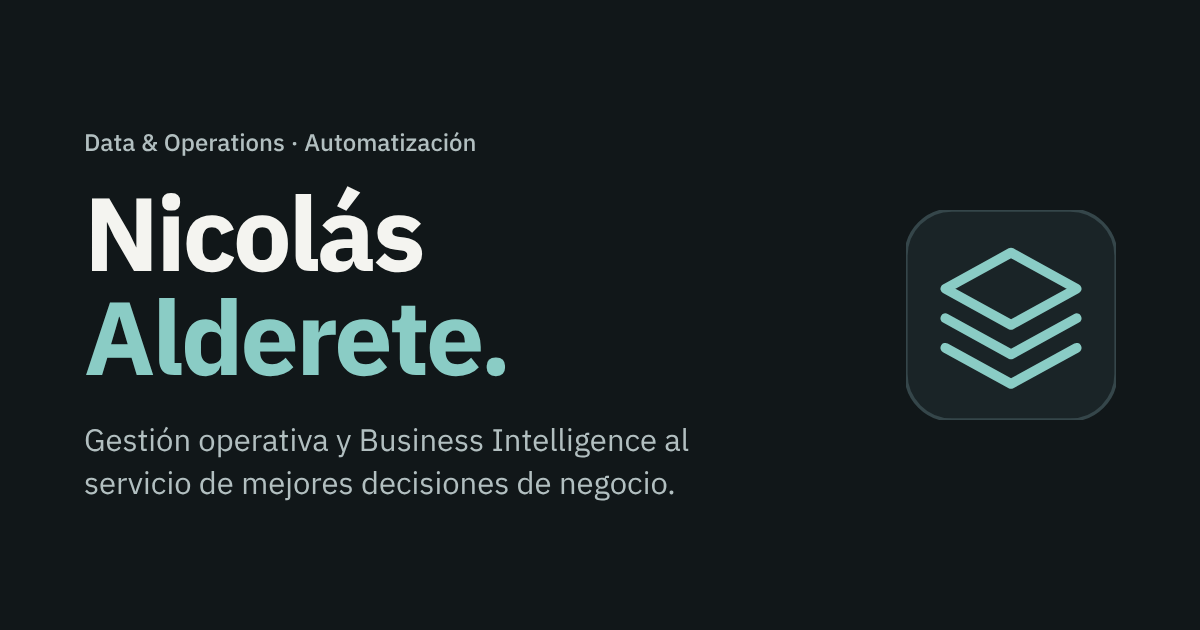
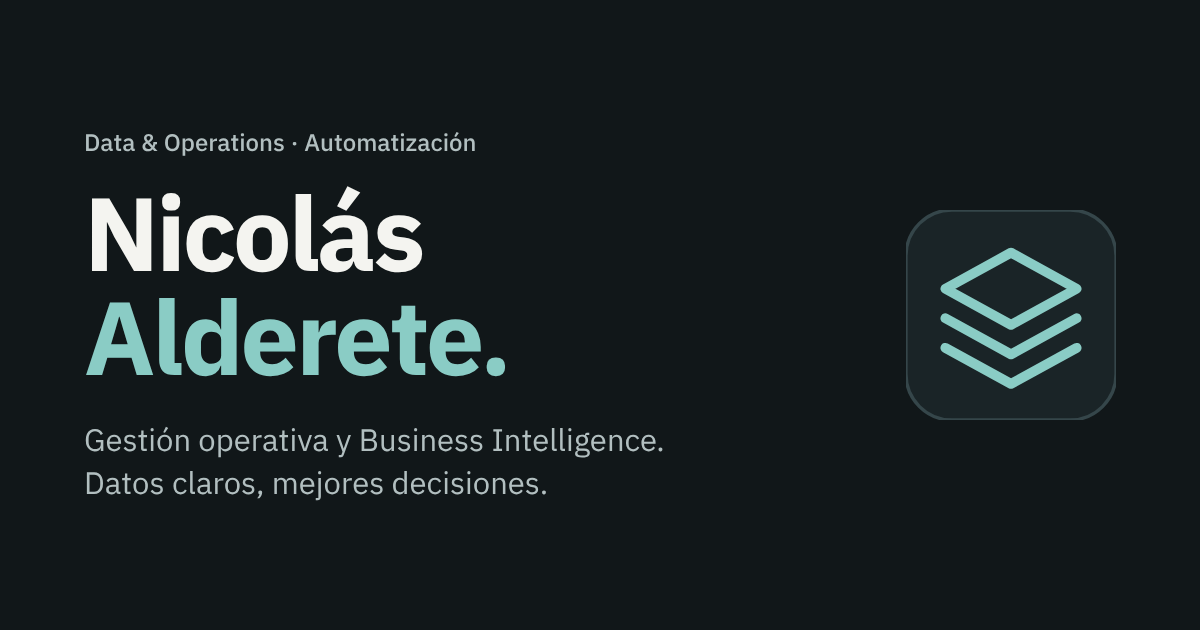
Cambia la frase de la portada y la imagen para compartir
Claude-Session: https://claude.ai/code/session_019oqm24apScdJa8YTtKtuDZ

Changed region(s): [[0.0617, 0.754, 0.555, 0.7841], [0.555, 0.6937, 0.5858, 0.7238]]

diff --git a/index.html b/index.html
@@ -2,7 +2,7 @@
 <html lang="es"><head><meta charset="utf-8"><meta name="viewport" content="width=device-width,initial-scale=1"><title>Nicolás Alderete — Data &amp; Operations</title><meta name="description" content="Portfolio de Nicolás Alderete: gestión operativa y de equipos, coordinación transversal, Business Intelligence, reporting ejecutivo y mejora de procesos."><meta name="theme-color" content="#111719"><link rel="canonical" href="https://nicoalderete.github.io/"><link rel="stylesheet" href="assets/css/portfolio.css?v=20261118c"><link rel="icon" href="assets/img/favicon.svg" type="image/svg+xml"><meta property="og:type" content="website"><meta property="og:site_name" content="Nicolás Alderete"><meta property="og:locale" content="es_AR"><meta property="og:title" content="Nicolás Alderete — Data &amp; Operations"><meta property="og:description" content="Portfolio de Nicolás Alderete: gestión operativa y de equipos, coordinación transversal, Business Intelligence, reporting ejecutivo y mejora de procesos."><meta property="og:url" content="https://nicoalderete.github.io/"><meta property="og:image" content="https://nicoalderete.github.io/assets/img/og.png"><meta property="og:image:width" content="1200"><meta property="og:image:height" content="630"><meta name="twitter:card" content="summary_large_image"><link rel="stylesheet" href="assets/css/refine.css?v=20261118g"></head>
 <body><a class="skip" href="#contenido">Saltar al contenido</a>
 <header><nav class="wrap main-nav" aria-label="Navegación principal"><a class="identity" href="#inicio">Nicolás Alderete <span>Data &amp; Operations</span></a><div class="navlinks"><a href="#proyectos">Proyectos</a><a href="#sobre-mi">Sobre mí</a><a href="#contacto">Contacto</a></div></nav></header>
-<main class="wrap" id="contenido"><section class="hero" id="inicio"><div><p class="eyebrow">Data &amp; Operations · Automatización</p><h1>Nicolás<br><span>Alderete.</span></h1><p class="hero-lead">Gestión operativa y Business Intelligence al servicio de mejores decisiones de negocio.</p><a class="hero-link" href="#proyectos">Ver proyectos <svg class="arrow" viewBox="0 0 24 24" aria-hidden="true"><path d="M5 12h14m-6-6 6 6-6 6"/></svg></a></div><svg class="hero-diagram" viewBox="88 33 284 154" aria-hidden="true"><g fill="none" stroke="#507c79" stroke-width="1.4"><path d="M100 45C150 45 150 110 195 110M100 110H195M100 175C150 175 150 110 195 110M265 110C310 110 310 45 360 45M265 110H360M265 110C310 110 310 175 360 175"/></g><g fill="none"><path class="hd-flow hd-in" pathLength="100" d="M100 45C150 45 150 110 195 110"/><path class="hd-flow hd-in hd-d1" pathLength="100" d="M100 110H195"/><path class="hd-flow hd-in hd-d2" pathLength="100" d="M100 175C150 175 150 110 195 110"/><path class="hd-flow hd-out" pathLength="100" d="M265 110C310 110 310 45 360 45"/><path class="hd-flow hd-out hd-d1" pathLength="100" d="M265 110H360"/><path class="hd-flow hd-out hd-d2" pathLength="100" d="M265 110C310 110 310 175 360 175"/></g><g fill="#8ACCC5"><circle cx="100" cy="45" r="5"/><circle cx="100" cy="110" r="5"/><circle cx="100" cy="175" r="5"/><circle cx="360" cy="45" r="5"/><circle cx="360" cy="110" r="5"/><circle cx="360" cy="175" r="5"/></g><rect x="195" y="75" width="70" height="70" rx="14" fill="#182729" stroke="#8ACCC5" stroke-width="1.6"/><g stroke="#8ACCC5" stroke-width="1.7" fill="none"><path d="m213 103 17-9 17 9-17 9-17-9Zm0 10 17 9 17-9m-34 10 17 9 17-9"/></g></svg></section>
+<main class="wrap" id="contenido"><section class="hero" id="inicio"><div><p class="eyebrow">Data &amp; Operations · Automatización</p><h1>Nicolás<br><span>Alderete.</span></h1><p class="hero-lead">Gestión operativa y Business Intelligence.<br>Datos claros, mejores decisiones.</p><a class="hero-link" href="#proyectos">Ver proyectos <svg class="arrow" viewBox="0 0 24 24" aria-hidden="true"><path d="M5 12h14m-6-6 6 6-6 6"/></svg></a></div><svg class="hero-diagram" viewBox="88 33 284 154" aria-hidden="true"><g fill="none" stroke="#507c79" stroke-width="1.4"><path d="M100 45C150 45 150 110 195 110M100 110H195M100 175C150 175 150 110 195 110M265 110C310 110 310 45 360 45M265 110H360M265 110C310 110 310 175 360 175"/></g><g fill="none"><path class="hd-flow hd-in" pathLength="100" d="M100 45C150 45 150 110 195 110"/><path class="hd-flow hd-in hd-d1" pathLength="100" d="M100 110H195"/><path class="hd-flow hd-in hd-d2" pathLength="100" d="M100 175C150 175 150 110 195 110"/><path class="hd-flow hd-out" pathLength="100" d="M265 110C310 110 310 45 360 45"/><path class="hd-flow hd-out hd-d1" pathLength="100" d="M265 110H360"/><path class="hd-flow hd-out hd-d2" pathLength="100" d="M265 110C310 110 310 175 360 175"/></g><g fill="#8ACCC5"><circle cx="100" cy="45" r="5"/><circle cx="100" cy="110" r="5"/><circle cx="100" cy="175" r="5"/><circle cx="360" cy="45" r="5"/><circle cx="360" cy="110" r="5"/><circle cx="360" cy="175" r="5"/></g><rect x="195" y="75" width="70" height="70" rx="14" fill="#182729" stroke="#8ACCC5" stroke-width="1.6"/><g stroke="#8ACCC5" stroke-width="1.7" fill="none"><path d="m213 103 17-9 17 9-17 9-17-9Zm0 10 17 9 17-9m-34 10 17 9 17-9"/></g></svg></section>
 <section class="work" id="proyectos"><div class="section-head"><h2>Proyectos seleccionados</h2><p>Problemas reales, mi aporte y las soluciones que construí.</p></div><div class="filters" role="group" aria-label="Filtrar proyectos"><button type="button" data-filter="all" aria-pressed="true">Todos</button><button type="button" data-filter="management" aria-pressed="false">Gestión</button><button type="button" data-filter="automation" aria-pressed="false">Automatización</button><button type="button" data-filter="bi" aria-pressed="false">Business Intelligence</button></div><p class="filter-status sr-only" role="status" aria-live="polite">7 proyectos</p><div class="projects"><article class="project" data-category="operations automation"><a class="project-visual" href="casos/gestion-cobranzas.html" aria-label="Ver caso: Gestión de cobranzas"><figure><div class="mini-app" aria-hidden="true"><div class="mini-side"><span class="mini-symbol">◇</span><span class="selected">Carteras</span><span class="">Casos</span><span class="">Archivo</span></div><div class="mini-main"><strong>Gestión de cartera</strong><div class="mini-table"><div class="mini-head"><span>Registro</span><span>Estado</span><span>Detalle</span></div><div class="mini-row"><i></i><span class="mini-state ">Pendiente</span><i></i></div><div class="mini-row"><i></i><span class="mini-state bright">En gestión</span><i></i></div><div class="mini-row"><i></i><span class="mini-state ">En gestión</span><i></i></div><div class="mini-row"><i></i><span class="mini-state bright">Cerrado</span><i></i></div></div></div></div><figcaption>Vista conceptual</figcaption></figure></a><div class="project-body"><p class="project-type">Sistemas de negocio · +50 usuarios</p><h3><a href="casos/gestion-cobranzas.html">Gestión de cobranzas</a></h3><p class="project-description">Conecté los saldos y pagos de los clientes con la gestión de cada ejecutivo y el seguimiento central, preservando estados, comentarios e histórico.</p><div class="tags"><span class="tag">Apps Script</span><span class="tag">Google Sheets</span></div><a class="case-link" href="casos/gestion-cobranzas.html" aria-label="Ver caso de Gestión de cobranzas">Ver caso <svg class="arrow" viewBox="0 0 24 24" aria-hidden="true"><path d="M5 12h14m-6-6 6 6-6 6"/></svg></a></div></article><article class="project" data-category="operations bi management"><a class="project-visual" href="casos/reporting-ejecutivo.html" aria-label="Ver caso: Reporting ejecutivo"><figure><div class="mini-app" aria-hidden="true"><div class="mini-side"><span class="mini-symbol">◇</span><span class="selected">Resumen</span><span class="">Períodos</span><span class="">Fuentes</span></div><div class="mini-main"><strong>Informe operativo</strong><div class="mini-report"><div class="mini-lines"><i></i><i></i><i></i></div><div class="mini-bars"><i style="height:30%"></i><i style="height:50%"></i><i style="height:40%"></i><i style="height:70%"></i><i style="height:55%"></i><i style="height:85%"></i></div></div></div></div><figcaption>Vista conceptual</figcaption></figure></a><div class="project-body"><p class="project-type">Análisis y comunicación · Dirección</p><h3><a href="casos/reporting-ejecutivo.html">Reporting ejecutivo</a></h3><p class="project-description">Consolidé indicadores y preparé reportes que explican variaciones, pendientes y prioridades para las conversaciones de gestión.</p><div class="tags"><span class="tag">Reporting</span><span class="tag">Business Intelligence</span></div><a class="case-link" href="casos/reporting-ejecutivo.html" aria-label="Ver caso de Reporting ejecutivo">Ver caso <svg class="arrow" viewBox="0 0 24 24" aria-hidden="true"><path d="M5 12h14m-6-6 6 6-6 6"/></svg></a></div></article><article class="project" data-category="operations management"><a class="project-visual" href="casos/sistema-gestion.html" aria-label="Ver caso: Gestión operativa y de equipos"><figure><div class="mini-app" aria-hidden="true"><div class="mini-side"><span class="mini-symbol">◇</span><span class="selected">Prioridades</span><span class="">Acciones</span><span class="">Decisiones</span></div><div class="mini-main"><strong>Seguimiento de gestión</strong><div class="mini-table"><div class="mini-head"><span>Tema</span><span>Estado</span><span>Responsable</span></div><div class="mini-row"><i></i><span class="mini-state ">Asignado</span><i></i></div><div class="mini-row"><i></i><span class="mini-state bright">En curso</span><i></i></div><div class="mini-row"><i></i><span class="mini-state ">Asignado</span><i></i></div><div class="mini-row"><i></i><span class="mini-state bright">Cerrado</span><i></i></div></div></div></div><figcaption>Vista conceptual</figcaption></figure></a><div class="project-body"><p class="project-type">Gestión · +60 personas</p><h3><a href="casos/sistema-gestion.html">Gestión operativa y de equipos</a></h3><p class="project-description">Comparto la supervisión de un equipo de más de 60 personas: ordeno prioridades, coordino con otras áreas y llevo cada reunión a acciones con responsable.</p><div class="tags"><span class="tag">Gestión de equipos</span><span class="tag">Coordinación</span><span class="tag">KPIs</span></div><a class="case-link" href="casos/sistema-gestion.html" aria-label="Ver caso de Gestión operativa y de equipos">Ver caso <svg class="arrow" viewBox="0 0 24 24" aria-hidden="true"><path d="M5 12h14m-6-6 6 6-6 6"/></svg></a></div></article><article class="project" data-category="bi"><a class="project-visual" href="casos/business-intelligence.html" aria-label="Explorar Business Intelligence"><figure><div class="bi-cover" aria-hidden="true"><div class="bi-cover-title">Business Intelligence <span>04 casos</span></div><div class="bi-cover-grid"><div><b>01</b><span>Operaciones</span><small>Actividad · pendientes</small></div><div><b>02</b><span>Continuidad</span><small>Movilidad · tiempos</small></div><div><b>03</b><span>Bajas</span><small>Motivos · permanencia</small></div><div><b>04</b><span>Atención</span><small>Mensajes · conversaciones</small></div></div></div><figcaption>Áreas de análisis</figcaption></figure></a><div class="project-body"><p class="project-type">Analytics · 4 casos aplicados</p><h3><a href="casos/business-intelligence.html">Business Intelligence</a></h3><p class="project-description">Desarrollé tableros y análisis sobre operaciones, continuidad, bajas y atención, desde la definición de métricas hasta la lectura del resultado.</p><div class="tags"><span class="tag">Data Studio</span><span class="tag">Data Analysis</span><span class="tag">KPIs</span></div><a class="case-link" href="casos/business-intelligence.html" aria-label="Explorar los casos de Business Intelligence">Explorar casos <svg class="arrow" viewBox="0 0 24 24" aria-hidden="true"><path d="M5 12h14m-6-6 6 6-6 6"/></svg></a></div></article><article class="project" data-category="operations bi automation"><a class="project-visual" href="casos/control-flota-datos.html" aria-label="Ver caso: Control de flota"><figure><div class="mini-app" aria-hidden="true"><div class="mini-side"><span class="mini-symbol">◇</span><span class="selected">Unidades</span><span class="">Registros</span><span class="">Histórico</span></div><div class="mini-main"><strong>Registro de flota</strong><div class="mini-table"><div class="mini-head"><span>Registro</span><span>Estado</span><span>Detalle</span></div><div class="mini-row"><i></i><span class="mini-state ">Activo</span><i></i></div><div class="mini-row"><i></i><span class="mini-state bright">En revisión</span><i></i></div><div class="mini-row"><i></i><span class="mini-state ">Activo</span><i></i></div><div class="mini-row"><i></i><span class="mini-state bright">Registrado</span><i></i></div></div></div></div><figcaption>Vista conceptual</figcaption></figure></a><div class="project-body"><p class="project-type">Integración de datos · +5.000 unidades</p><h3><a href="casos/control-flota-datos.html">Control de flota</a></h3><p class="project-description">Integré fuentes de flota, revisiones periódicas y mantenimiento con validaciones e históricos para consultar el estado actual y comparar períodos.</p><div class="tags"><span class="tag">Apps Script</span><span class="tag">Google Sheets</span><span class="tag">Data Studio</span></div><a class="case-link" href="casos/control-flota-datos.html" aria-label="Ver caso de Control de flota">Ver caso <svg class="arrow" viewBox="0 0 24 24" aria-hidden="true"><path d="M5 12h14m-6-6 6 6-6 6"/></svg></a></div></article><article class="project" data-category="operations automation management"><a class="project-visual" href="casos/procesos-entre-equipos.html" aria-label="Ver caso: Automatización de procesos"><figure><div class="mini-app" aria-hidden="true"><div class="mini-side"><span class="mini-symbol">◇</span><span class="selected">Flujos</span><span class="">Registros</span><span class="">Reglas</span></div><div class="mini-main"><strong>Flujo de trabajo</strong><div class="mini-flow"><div><i>01</i><span>Registro</span></div><b>›</b><div class="active"><i>02</i><span>Reglas</span></div><b>›</b><div><i>03</i><span>Equipo</span></div></div><div class="mini-track"><span></span><span></span><span></span></div></div></div><figcaption>Vista conceptual</figcaption></figure></a><div class="project-body"><p class="project-type">Diseño de procesos</p><h3><a href="casos/procesos-entre-equipos.html">Automatización de procesos</a></h3><p class="project-description">Convertí necesidades de distintos equipos en registros, reglas y automatizaciones para dar continuidad a cada gestión.</p><div class="tags"><span class="tag">Apps Script</span><span class="tag">Google Sheets</span></div><a class="case-link" href="casos/procesos-entre-equipos.html" aria-label="Ver caso de Automatización de procesos">Ver caso <svg class="arrow" viewBox="0 0 24 24" aria-hidden="true"><path d="M5 12h14m-6-6 6 6-6 6"/></svg></a></div></article><article class="project" data-category="operations automation bi"><a class="project-visual" href="casos/fleet-ops-center.html" aria-label="Ver caso: Fleet Ops Center"><figure><div class="mini-app" aria-hidden="true"><div class="mini-side"><span class="mini-symbol">◇</span><span class="selected">Operación</span><span>Equipos</span><span>Seguimiento</span></div><div class="mini-main"><strong>Fleet Ops Center</strong><div class="mini-modules"><span>Revisiones</span><span>Mantenimiento</span><span>Taller</span><span>Gas</span><span>Documentación</span><span>Cobranzas</span></div></div></div><figcaption>Vista conceptual</figcaption></figure></a><div class="project-body"><p class="project-type">Producto interno · En desarrollo</p><h3><a href="casos/fleet-ops-center.html">Fleet Ops Center</a></h3><p class="project-description">Diseño una herramienta interna para reunir procesos, información e indicadores de flota en un mismo espacio de trabajo.</p><div class="tags"><span class="tag">Diseño funcional</span><span class="tag">Integración de datos</span></div><a class="case-link" href="casos/fleet-ops-center.html" aria-label="Ver caso de Fleet Ops Center">Ver caso <svg class="arrow" viewBox="0 0 24 24" aria-hidden="true"><path d="M5 12h14m-6-6 6 6-6 6"/></svg></a></div></article></div></section>
 <section id="sobre-mi" class="about"><div><div class="eyebrow">Sobre mí</div><h2>Entender el problema.<br>Construir la solución.</h2><div class="portrait"><img src="assets/img/retrato-mejorado-320.webp" srcset="assets/img/retrato-mejorado-320.webp 320w, assets/img/retrato-mejorado.webp 1254w" sizes="84px" width="1254" height="1254" alt="Nicolás Alderete" loading="lazy" decoding="async"><div><b>Nicolás Alderete</b><small>Data &amp; Operations · Buenos Aires</small></div></div></div><div class="about-copy"><p>Soy Nicolás. Combino gestión de operaciones y equipos con análisis de datos, Business Intelligence y automatización para mejorar procesos y decisiones de negocio. Actualmente soy supervisor en deRentas, donde coordino iniciativas entre equipos, defino KPIs y desarrollo reportes ejecutivos y herramientas de gestión.</p><p>Mi foco está en detectar oportunidades de mejora, simplificar procesos y transformar datos en acciones. Estoy disponible para roles corporativos y proyectos independientes que requieran una mirada integral del negocio y soluciones con resultados medibles.</p></div><div class="toolbox" aria-labelledby="toolbox-title"><h3 id="toolbox-title">Herramientas y habilidades</h3><ul class="tools-grid"><li><svg viewBox="0 0 24 24" aria-hidden="true" focusable="false"><rect x="4" y="3" width="16" height="18" rx="2"/><path d="M4 9h16M4 15h16M10 9v12"/></svg><span>Google Sheets</span></li><li><svg viewBox="0 0 24 24" aria-hidden="true" focusable="false"><path d="m8 5-6 7 6 7m8-14 6 7-6 7M14 3l-4 18"/></svg><span>Google Apps Script</span></li><li><svg viewBox="0 0 24 24" aria-hidden="true" focusable="false"><rect x="4" y="3" width="16" height="18" rx="2"/><path d="M4 9h16M4 15h16M10 9v12"/></svg><span>Microsoft Excel</span></li><li><svg viewBox="0 0 24 24" aria-hidden="true" focusable="false"><ellipse cx="12" cy="5" rx="8" ry="3"/><path d="M4 5v14c0 1.7 3.6 3 8 3s8-1.3 8-3V5M4 12c0 1.7 3.6 3 8 3s8-1.3 8-3"/></svg><span>SQL</span></li><li><svg viewBox="0 0 24 24" aria-hidden="true" focusable="false"><path d="M4 3v17h17M8 16v-5m5 5V7m5 9V4"/></svg><span>Data Studio</span></li><li><svg viewBox="0 0 24 24" aria-hidden="true" focusable="false"><path d="m7 6-5 6 5 6m10-12 5 6-5 6M14 3l-4 18"/></svg><span>Python</span></li><li><svg viewBox="0 0 24 24" aria-hidden="true" focusable="false"><circle cx="10" cy="10" r="7"/><path d="m15 15 6 6M7 13V9m3 4V6m3 7v-3"/></svg><span>BigQuery</span></li><li><svg viewBox="0 0 24 24" aria-hidden="true" focusable="false"><path d="M4 3v17h17M8 16v-5m5 5V7m5 9V4"/></svg><span>Power BI</span></li><li><svg viewBox="0 0 24 24" aria-hidden="true" focusable="false"><path d="M12 5v14M5 12h14M5 3v4M3 5h4M19 3v4M17 5h4M5 17v4M3 19h4M19 17v4M17 19h4"/></svg><span>Tableau</span></li><li><svg viewBox="0 0 24 24" aria-hidden="true" focusable="false"><path d="M4 3v17h17M7 15l4-5 3 3 5-7"/></svg><span>Visualización de datos</span></li><li><svg viewBox="0 0 24 24" aria-hidden="true" focusable="false"><circle cx="9" cy="8" r="3.5"/><path d="M2.5 20c.6-3.6 3.200-5.500 6.500-5.500s5.900 1.900 6.500 5.500M16 4.800a3.500 3.500 0 0 1 0 6.400M18.500 14.900c1.700.9 2.700 2.600 3 5.100"/></svg><span>Gestión de equipos</span></li><li><svg viewBox="0 0 24 24" aria-hidden="true" focusable="false"><rect x="5" y="8" width="14" height="11" rx="2"/><path d="M12 8V4M9 13v2m6-2v2M2 13h3m14 0h3"/></svg><span>IA aplicada</span></li><li><svg viewBox="0 0 24 24" aria-hidden="true" focusable="false"><path d="m12 3 2.6 6.4L21 12l-6.4 2.6L12 21l-2.6-6.4L3 12l6.4-2.6L12 3ZM20 2v4m-2-2h4"/></svg><span>Google AI Studio</span></li><li><svg viewBox="0 0 24 24" aria-hidden="true" focusable="false"><path d="M4 5h16v11H9l-5 4V5Z"/></svg><span>Respond.io</span></li><li><svg viewBox="0 0 24 24" aria-hidden="true" focusable="false"><rect x="5" y="3" width="14" height="18" rx="2"/><path d="M9 8h6M9 12h6M9 16h3"/></svg><span>Google Workspace</span></li></ul></div><div class="capabilities"><div class="capability"><span class="num">01</span><div><h3>Gestión operativa y de equipos</h3><p>Organizo prioridades, coordino acciones entre equipos y doy seguimiento a responsables, plazos y desvíos.</p></div></div><div class="capability"><span class="num">02</span><div><h3>Business Intelligence y reporting ejecutivo</h3><p>Defino y valido indicadores, fuentes y tableros, y los traduzco en reportes claros para conversaciones de gestión.</p></div></div><div class="capability"><span class="num">03</span><div><h3>Automatización y herramientas internas</h3><p>Desarrollo flujos, fórmulas y scripts que reducen tareas repetitivas, y participo en la definición y construcción de soluciones para los equipos.</p></div></div></div>
 </section>
